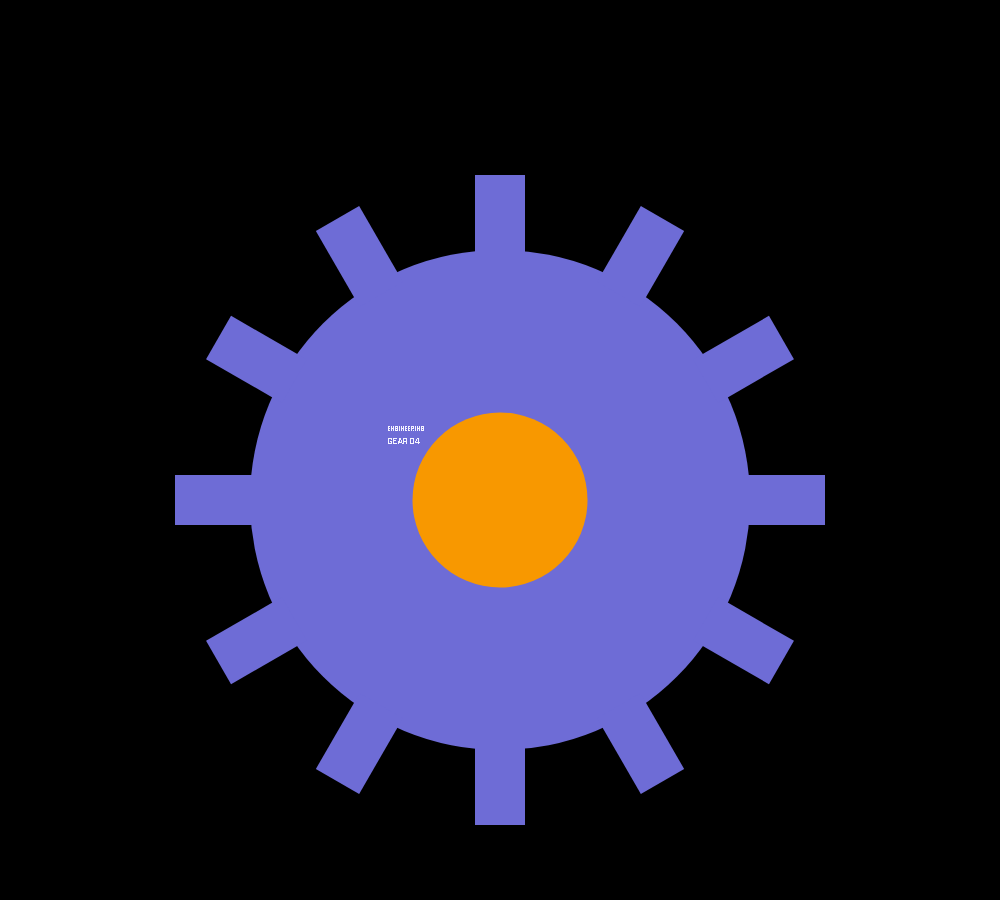
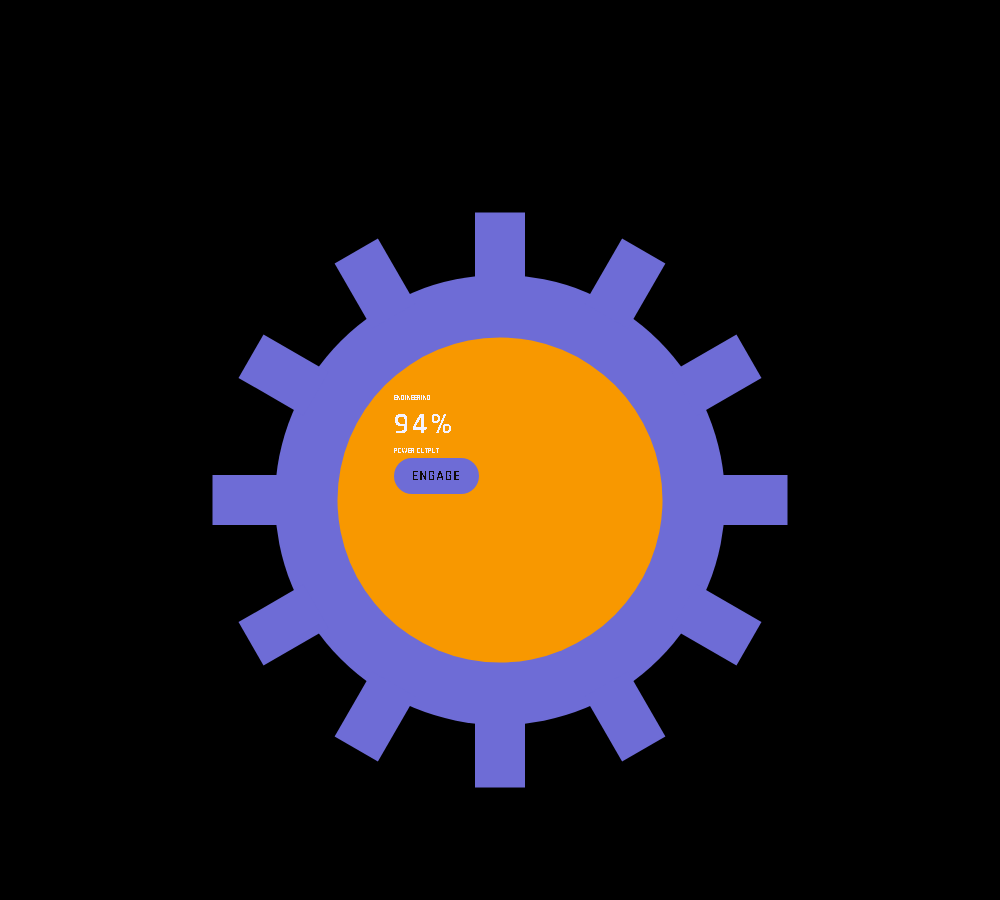
Densify shape gallery consoles; add transparent-viewport demonstration
Each shape gallery screen now carries real console density (multiple
readouts, labels, and controls filling the housing) instead of a single
sparse caption, and vase/lens text switches to explicit high-contrast
color= to stay legible on light housings. Adds a transparent-background
capture of the gear screen showing a surface's silhouette is the actual
paint boundary, not a shape on a rectangular backdrop, wired into the
README and wiki Surface Engine galleries.

Claude-Session: https://claude.ai/code/session_01WcF9dM9k87a3SQvruJSyAs

diff --git a/lcars-ui/examples/shape_gallery/app.py b/lcars-ui/examples/shape_gallery/app.py
@@ -63,10 +63,20 @@ def _hexagonal_array() -> None:
                 color="mariner",
                 id="hex-housing",
             )
-            with surface.region("hex-content", x=280, y=250, w=240, h=200):
-                lcars.text("SENSOR ARRAY", size="label", align="center", id="hex-title")
-                lcars.text("HEXAGONAL", size="h2", align="center", id="hex-value")
-                lcars.button("SCAN", color="atomic-tangerine", id="hex-scan")
+            with surface.region("hex-title", x=250, y=140, w=300, h=50):
+                lcars.text("HEXAGONAL SENSOR ARRAY", size="label", align="center", id="hex-title-text")
+            with surface.region("hex-readout-left", x=210, y=210, w=170, h=160):
+                lcars.text("PORT SENSOR", size="micro", align="center", id="hex-left-label")
+                lcars.text("94%", size="h1", align="center", id="hex-left-value")
+                lcars.text("NOMINAL", size="micro", align="center", id="hex-left-status")
+            with surface.region("hex-readout-right", x=420, y=210, w=170, h=160):
+                lcars.text("STBD SENSOR", size="micro", align="center", id="hex-right-label")
+                lcars.text("87%", size="h1", align="center", id="hex-right-value")
+                lcars.text("NOMINAL", size="micro", align="center", id="hex-right-status")
+            with surface.region("hex-controls", x=250, y=400, w=300, h=140):
+                lcars.button("SCAN", color="atomic-tangerine", id="hex-btn-scan")
+                lcars.button("CALIBRATE", color="atomic-tangerine", id="hex-btn-calibrate")
+                lcars.button("LOCK TARGET", color="atomic-tangerine", id="hex-btn-lock")
 
 
 def _star_beacon() -> None:
@@ -93,10 +103,13 @@ def _star_beacon() -> None:
                 color="red",
                 id="star-housing",
             )
-            surface.circle(400, 350, 55, color="orange", id="star-core")
+            with surface.region("star-readout-top", x=340, y=265, w=120, h=50):
+                lcars.text("CONDITION", size="micro", align="center", id="star-condition-label")
+                lcars.text("RED ALERT", size="label", align="center", id="star-condition-value")
+            surface.circle(400, 350, 45, color="orange", id="star-core")
             surface.effect("star-core", "pulse", period_ms=1200, colors=("orange", "red"))
-            with surface.region("star-content", x=340, y=560, w=120, h=40):
-                lcars.text("RED ALERT", size="micro", align="center", id="star-label")
+            with surface.region("star-readout-bottom", x=340, y=400, w=120, h=45):
+                lcars.text("SHIELDS 94%", size="micro", align="center", id="star-shields")
 
 
 def _vase_archive() -> None:
@@ -125,9 +138,17 @@ def _vase_archive() -> None:
                 color="golden-tanoi",
                 id="vase-housing",
             )
-            with surface.region("vase-content", x=280, y=350, w=140, h=100):
-                lcars.text("ARCHIVE", size="label", align="center", id="vase-title")
-                lcars.text("VESSEL 04", size="micro", align="center", id="vase-value")
+            with surface.region("vase-title", x=260, y=310, w=280, h=50):
+                lcars.text("ARCHIVE VESSEL 04", size="label", color="white", align="center", id="vase-title-text")
+            with surface.region("vase-readout-left", x=215, y=370, w=150, h=100):
+                lcars.text("CARGO", size="micro", color="white", align="center", id="vase-cargo-label")
+                lcars.text("142 UNITS", size="label", color="white", align="center", id="vase-cargo-value")
+            with surface.region("vase-readout-right", x=435, y=370, w=150, h=100):
+                lcars.text("AGE", size="micro", color="white", align="center", id="vase-age-label")
+                lcars.text("2.3K YRS", size="label", color="white", align="center", id="vase-age-value")
+            with surface.region("vase-controls", x=270, y=490, w=260, h=100):
+                lcars.button("CATALOG", color="atomic-tangerine", id="vase-btn-catalog")
+                lcars.button("RESTORE", color="atomic-tangerine", id="vase-btn-restore")
 
 
 def _gear_assembly() -> None:
@@ -146,16 +167,18 @@ def _gear_assembly() -> None:
         sizing="content",
     ):
         with lcars.surface(design_size=(800, 800), min_width=600, narrow="scale") as surface:
-            surface.circle(400, 400, 200, color="mariner", id="gear-body")
+            surface.circle(400, 400, 180, color="mariner", id="gear-body")
             with surface.group(
                 repeat_radial={"count": 12, "center": (400, 400), "start_angle": 0, "end_angle": 330},
                 id="teeth-group",
             ) as group:
-                group.rect(380, 140, 40, 70, color="mariner", id="tooth")
-            surface.circle(400, 400, 70, color="atomic-tangerine", id="gear-hub")
-            with surface.region("gear-content", x=310, y=340, w=180, h=120):
+                group.rect(380, 170, 40, 60, color="mariner", id="tooth")
+            surface.circle(400, 400, 130, color="atomic-tangerine", id="gear-hub")
+            with surface.region("gear-content", x=315, y=315, w=170, h=170):
                 lcars.text("ENGINEERING", size="micro", color="white", align="center", id="gear-title")
-                lcars.text("GEAR 04", size="label", color="white", align="center", id="gear-value")
+                lcars.text("94%", size="h1", color="white", align="center", id="gear-power-value")
+                lcars.text("POWER OUTPUT", size="micro", color="white", align="center", id="gear-power-label")
+                lcars.button("ENGAGE", color="mariner", id="gear-btn-engage")
 
 
 def _lens_viewport() -> None:
@@ -184,9 +207,16 @@ def _lens_viewport() -> None:
                 color="lilac",
                 id="lens-housing",
             )
-            with surface.region("lens-content", x=340, y=310, w=120, h=80):
-                lcars.text("ORACLE", size="micro", align="center", id="lens-title")
-                lcars.text("LENS", size="label", align="center", id="lens-value")
+            with surface.region("lens-title", x=357, y=225, w=86, h=45):
+                lcars.text("ORACLE SCAN", size="micro", color="white", align="center", id="lens-title-text")
+            with surface.region("lens-readout", x=335, y=280, w=130, h=50):
+                lcars.text("COHERENCE", size="micro", color="white", align="center", id="lens-readout-label")
+                lcars.text("98%", size="h2", color="white", align="center", id="lens-readout-value")
+            with surface.region("lens-controls", x=330, y=335, w=140, h=70):
+                lcars.button("REFOCUS", color="atomic-tangerine", id="lens-btn-refocus")
+            with surface.region("lens-status", x=352, y=410, w=96, h=55):
+                lcars.text("FOCAL LOCK", size="micro", color="white", align="center", id="lens-status-label")
+                lcars.text("ACQUIRED", size="micro", color="white", align="center", id="lens-status-value")
 
 
 def build() -> None:

diff --git a/wiki/Surface-Engine.md b/wiki/Surface-Engine.md
@@ -30,6 +30,16 @@ rows and columns, and `lcars.surface()` when the screen itself is geometric.
 
 *Lens viewport — a filled path uses paired arc commands to form the lens.*
 
+A surface's silhouette is the actual paint boundary, not a rectangle with a shaped decal
+on it: the page background is fully transparent outside the housing geometry. Cut the
+device or embed's viewport to the same shape and only the gear renders — no surrounding
+black rectangle.
+
+![Gear assembly with a transparent viewport background](images/surface-gear-viewport.png)
+
+*Same gear screen, page background made transparent — this is what a gear-shaped physical
+display or embedded viewport would actually show.*
+
 ## Start with shapes and regions
 
 A surface uses design coordinates. Basic geometry includes `rect`, `rounded_rect`, `capsule`,

diff --git a/lcars-ui/README.md b/lcars-ui/README.md
@@ -180,6 +180,12 @@ with lcars.page("Hexagonal Array", layout="authored", chrome="none"):
 | Lens viewport | |
 | ![Arc-path lens viewport](https://raw.githubusercontent.com/darsrc/LCARS-WebUI/main/docs/screenshots/surface-lens.png) | |
 
+A surface's silhouette is the real paint boundary, not a shape drawn on a rectangular
+backdrop — the page background outside the housing geometry is fully transparent. Clip a
+device or embed viewport to the same outline and only the shape renders:
+
+![Gear assembly with a transparent viewport background](https://raw.githubusercontent.com/darsrc/LCARS-WebUI/main/docs/screenshots/surface-gear-viewport.png)
+
 See [docs/surface.md](docs/surface.md) for the complete Surface Engine reference.
 
 ## Widget catalog
